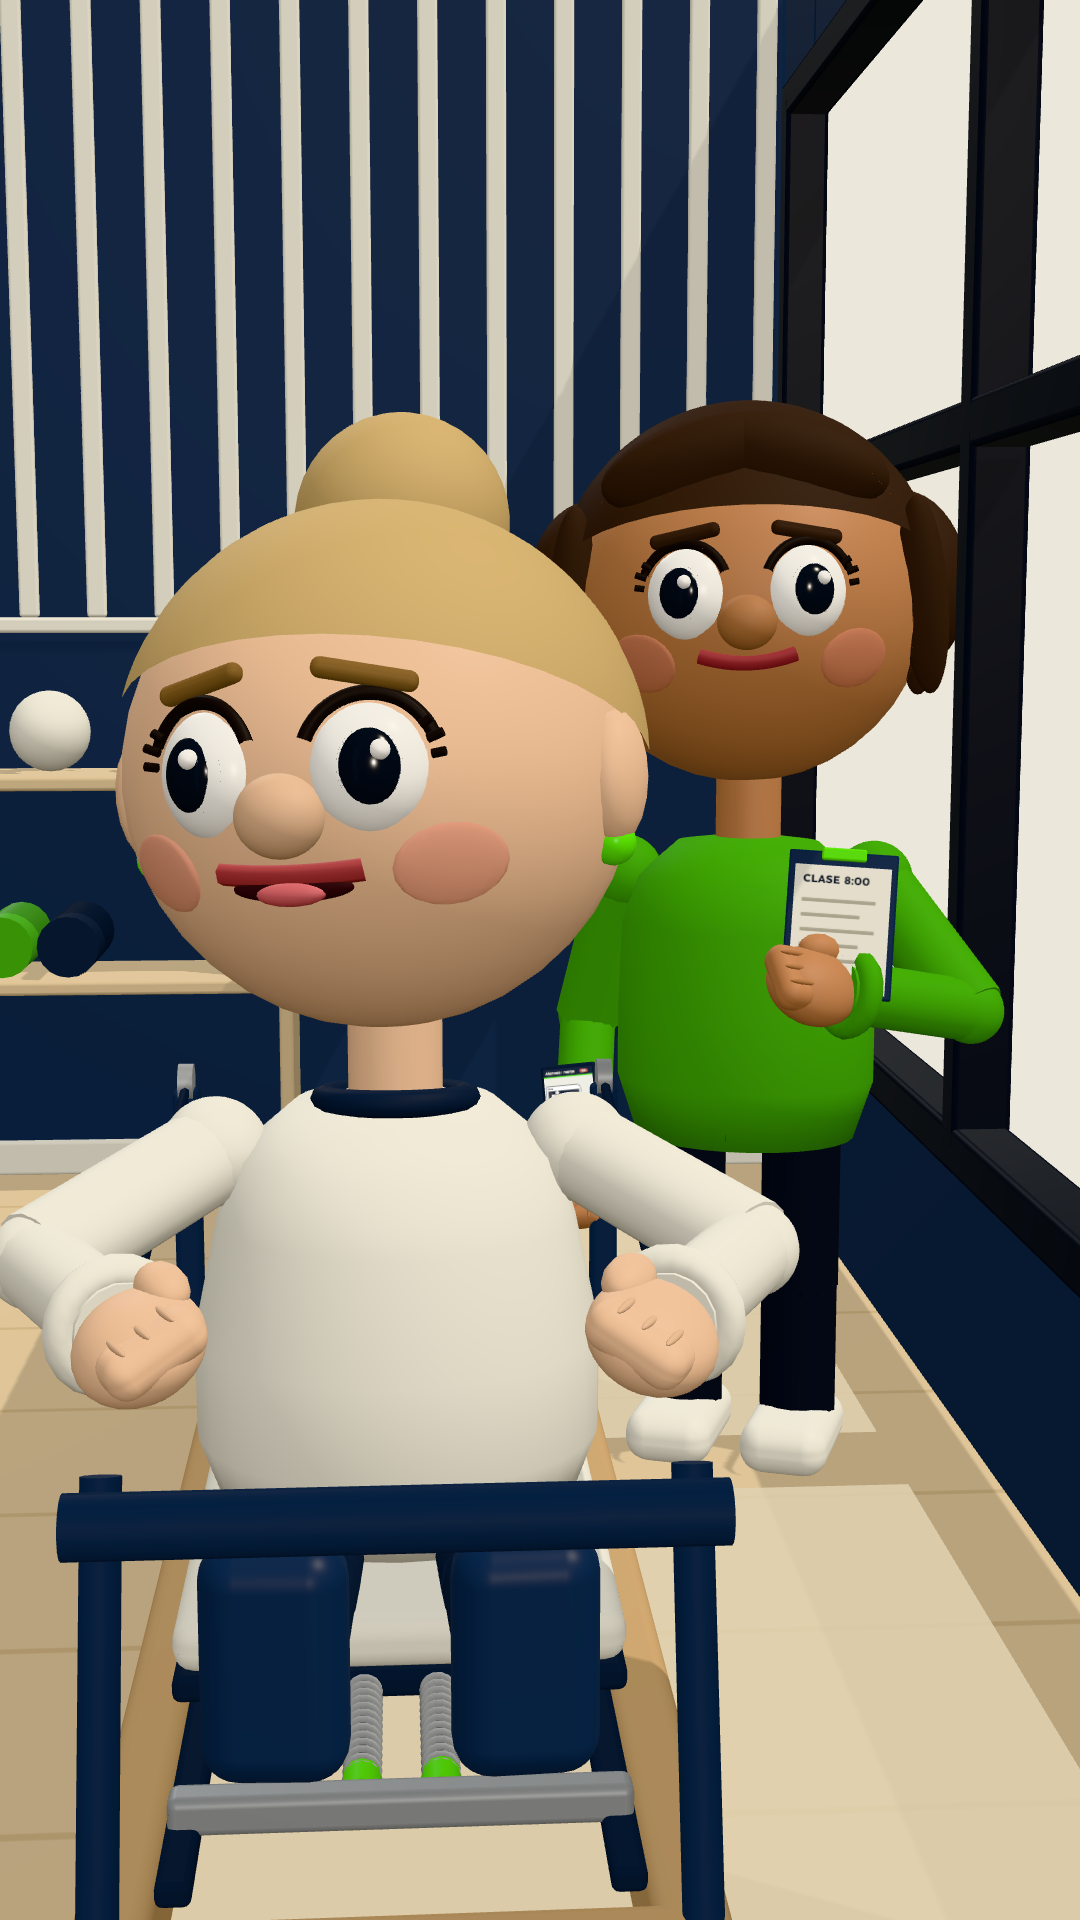
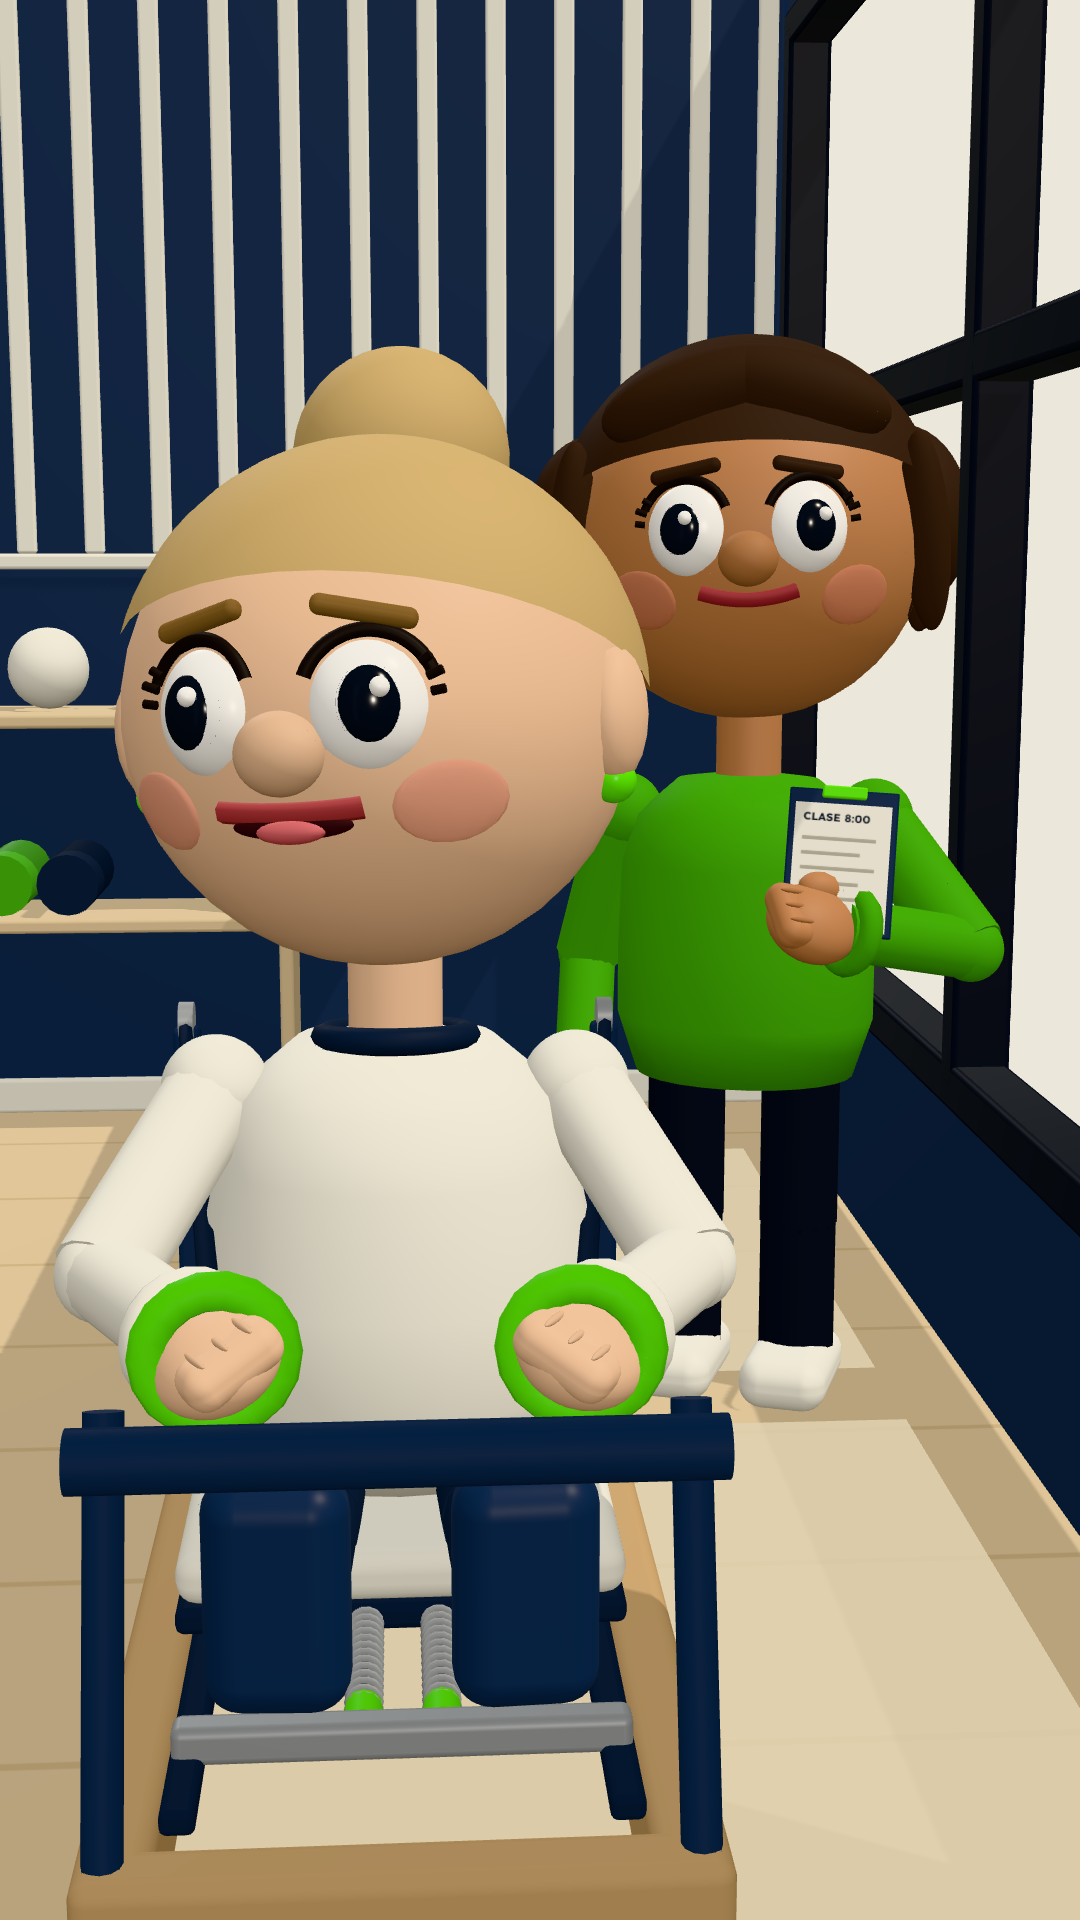
wip: pilates-cuota (ronda 3 corregida, antes del render)
Claude-Session: https://claude.ai/code/session_01Fn7kXCPYhPYC2JJr7hdyAB

diff --git a/reels/pilates-cuota/assets/tres.js b/reels/pilates-cuota/assets/tres.js
@@ -276,9 +276,10 @@ function ponerCorreas(r, manos, on = true) {
     c.visible = asa.visible = on && !!manos; if (!c.visible) continue;
     const p = r.localToWorld(_cA.set(s * POLEA.x, POLEA.y, POLEA.z - 0.03));
     const m = manos[0].distanceTo(p) < manos[1].distanceTo(p) ? manos[0] : manos[1];   // (r2) la mano del mismo lado
-    const ma = _cB.copy(p).sub(m).normalize().multiplyScalar(0.06).add(m);   // (r1) el asa asoma delante del puño
-    entre(c, p, ma.clone(), 0.0085);
-    asa.position.copy(ma); asa.lookAt(p); asa.rotateY(Math.PI / 2); asa.scale.setScalar(1.25);
+    // (r3) el asa verde rodea el puño (de frente se ve el aro alrededor de la mano cerrada) y la correa llega hasta el asa
+    const ma = m.clone();   // (r3) clone: entre() usa _cB y pisaba la posición del asa (por eso no se veía)
+    entre(c, p, ma.clone(), 0.012);
+    asa.position.copy(ma); asa.lookAt(p); asa.scale.setScalar(1.8);
   }
 }
 const REFS = REF_X.map((x) => { const r = crearReformer(); r.position.set(x, 0, REF_Z(x)); r.rotation.y = Math.PI; ponerCarro(r, 0); return r; });   // (r2) dado vuelta: las poleas detrás de la alumna, la barra de pies hacia cámara
@@ -313,7 +314,7 @@ function dibujarPizarra(x, W, H, nQ, pop = 1, horarios = false) {
   if (horarios) {
     x.fillStyle = "#0b1220"; x.textAlign = "center"; x.font = F(900, 86); x.fillText("HORARIOS", W / 2 + 60, 140);   // (r2) más chico y adentro: el borde del cuadro no lo corta
     x.fillStyle = "#5ce611"; x.fillRect(W / 2 + 60 - 230, 196, 460, 12);
-    x.fillStyle = "#16243d"; x.font = CAV(100); x.fillText("Lun · Mié · Vie", W / 2 + 60, 320); x.fillText("8:00 · 19:00", W / 2 + 60, 440);
+    x.fillStyle = "#16243d"; x.font = CAV(100); x.fillText("8:00 · 19:00", W / 2 + 60, 440);   // (r3) sin "Lun · Mié · Vie": asomaba cortado sobre la burbuja
     x.font = CAV(84); x.fillText("Mar · Jue  9:00", W / 2 + 60, 570);
     return;
   }
@@ -353,7 +354,7 @@ const bancoT = lienzo(900, 580, (x, W, H) => {
   x.fillStyle = "#efeee5"; x.beginPath(); x.moveTo(44, 62); x.lineTo(70, 34); x.lineTo(96, 62); x.closePath(); x.fill(); x.fillRect(52, 60, 36, 24);
   x.font = F(800, 46); x.textBaseline = "middle"; x.textAlign = "left"; x.fillText("Movimientos · marzo", 120, 52);
   const fil = ["Transferencia recibida", "Transferencia recibida", "Transferencia recibida", "Transferencia recibida", "Transferencia recibida"];
-  fil.forEach((f, i) => { const y = 150 + i * 86; x.fillStyle = i % 2 ? "#ffffff" : "#f6f4ea"; x.fillRect(20, y - 38, W - 40, 76); x.fillStyle = "#16243d"; x.font = F(700, 38); x.fillText(f, 40, y); x.textAlign = "right"; x.font = F(800, 40); x.fillText("$ 3.000", W - 40, y); x.textAlign = "left"; });
+  fil.slice(0, 4).forEach((f, i) => { const y = 160 + i * 104; x.fillStyle = i % 2 ? "#ffffff" : "#f6f4ea"; x.fillRect(20, y - 48, W - 40, 96); x.fillStyle = "#16243d"; x.font = F(700, 48); x.fillText(f, 40, y); x.textAlign = "right"; x.font = F(800, 52); x.fillText("$ 3.000", W - 40, y); x.textAlign = "left"; });   // (r3) textos más grandes
 });
 const LAPTOP = new THREE.Group();
 { LAPTOP.add(caja(0.36, 0.018, 0.25, M.cr2, 0, 0.009, 0, 0.008)); LAPTOP.add(caja(0.31, 0.003, 0.12, mat(0xc9c6b6, 0.7), 0, 0.019, -0.03, 0.002));
@@ -863,7 +864,7 @@ const PLANOS = [
   // (r1) Q3b: contraplano a Ceci en "El 1, a las 7:02." (Q3 duraba 6,2 s en un plano)
   ["Q3b", T.q3b, [[T.q3b, 2.62, 1.55, 1.75, CECI_CLASE.x - 0.12, 1.45, CECI_CLASE.z, 44], [T.q4, 2.62, 1.55, 1.62, CECI_CLASE.x - 0.12, 1.45, CECI_CLASE.z, 43]]],
   ["Q4", T.q4, [[T.q4, 2.72, 1.5, 2.0, CECI_CLASE.x - 0.1, 1.42, CECI_CLASE.z, 48], [T.q5, 2.72, 1.5, 1.85, CECI_CLASE.x - 0.1, 1.42, CECI_CLASE.z, 47]]],
-  ["Q5", T.q5, [[T.q5, MOS.x + 0.32, 1.82, MOS.z + 1.52, MOS.x + 0.32, 1.13, MOS.z - 0.02, 42], [DUR, MOS.x + 0.32, 1.8, MOS.z + 1.47, MOS.x + 0.32, 1.13, MOS.z - 0.02, 41.5]]   /* (r2) desde más arriba: abajo se ve la tapa del mostrador con la planilla y la taza, no el frente liso */],
+  ["Q5", T.q5, [[T.q5, MOS.x + 0.32, 1.86, MOS.z + 1.48, MOS.x + 0.32, 1.2, MOS.z - 0.02, 42], [DUR, MOS.x + 0.32, 1.84, MOS.z + 1.43, MOS.x + 0.32, 1.2, MOS.z - 0.02, 41.5]]   /* (r2) desde más arriba: abajo se ve la tapa del mostrador con la planilla y la taza, no el frente liso */],
 ];
 for (let i = PLANOS.length - 2; i >= 0; i--) { const d = PLANOS[i + 1][1] - PLANOS[i][1]; if (d < 0.3) { console.error(`plano corto: ${PLANOS[i][0]} (${d.toFixed(2)} s), se saca`); PLANOS.splice(i, 1); } }
 const _m = new THREE.Vector3();
@@ -898,6 +899,8 @@ const bocaVoz = (p, t, t0, env, k = 0.7) => {
   if (t >= t0 - 0.05 && t < t0 + env.length / 30 + 0.05 && !p.cierraHablando) p.ojos.abiertos = Math.max(p.ojos.abiertos, 0.85);   // hablando, nunca con los ojos cerrados
 };
 const manoMundo = (per, lado, out = new THREE.Vector3()) => { per.raiz.updateMatrixWorld(true); return per.brazos[lado === "I" ? 0 : 1].mano.getWorldPosition(out); };
+// (r3) el centro del puño (la mano cuelga 0,05 a lo largo del antebrazo): ahí va el asa
+const punoMundo = (per, lado) => { per.raiz.updateMatrixWorld(true); const m = per.brazos[lado === "I" ? 0 : 1].mano; return m.localToWorld(new THREE.Vector3(0, -0.05, 0.005)); };
 function aCuerpo(per, p, w) { per.poner(p); per.raiz.updateMatrixWorld(true); const v = per.cuerpo.worldToLocal(w.clone()); return [v.x, v.y, v.z]; }
 const dirGiro = (x0, z0, x1, z1) => Math.atan2(x1 - x0, z1 - z0);
 const toW = (per, local) => { per.raiz.updateMatrixWorld(true); return per.cuerpo.localToWorld(V3(...local)); };
@@ -915,8 +918,8 @@ function poseRemo(per, ref, t, u, extra = {}) {
     x: ref.position.x, y: 0.415 - per.CADERA * al, z: ref.position.z - (CARRO.z0 + dz - 0.2), giro: 0, sentado: 1, piernasRectas: 1, inclina: lerp(0.04, -0.03, u),
     ...aC(0, 0.05), ...CARA.neutra,
     // (r2) "abrazar el árbol": las manos se juntan adelante y se abren a los costados; las correas van a las poleas de atrás
-    manoI: [lerp(0.27, 0.5, u), lerp(0.38, 0.36, u), lerp(0.46, 0.08, u)], manoD: [-lerp(0.27, 0.5, u), lerp(0.38, 0.36, u), lerp(0.46, 0.08, u)],
-    codoI: [1, -0.2, -0.3], codoD: [-1, -0.2, -0.3], dedoI: 0, dedoD: 0, t,
+    manoI: [lerp(0.2, 0.42, u), lerp(0.3, 0.28, u), lerp(0.46, 0.2, u)], manoD: [-lerp(0.2, 0.42, u), lerp(0.3, 0.28, u), lerp(0.46, 0.2, u)],   // (r3) puños adelante, más bajos (no palmas arriba)
+    codoI: [1, -0.6, -0.4], codoD: [-1, -0.6, -0.4], dedoI: 0, dedoD: 0, t,
   };
   return { ...p, ...extra };
 }
@@ -929,7 +932,7 @@ function ponerClase(t) {
     const p = poseRemo(a, ref, t, u * (1 - b), { ...aC(0.05 * Math.sin(i), 0.05), ...CARA.neutra, ojos: { abiertos: 0.95, y: -0.2 } });
     if (b > 0) { p.manoI = p.manoI.map((v, k) => lerp(v, [0.26, -0.02, 0.12][k], b)); p.manoD = p.manoD.map((v, k) => lerp(v, [-0.26, -0.02, 0.12][k], b)); p.boca.sonrisa = lerp(p.boca.sonrisa, 0.6, b); }
     a.poner(p);
-    ponerCorreas(ref, b > 0.9 ? null : [manoMundo(a, "I", new THREE.Vector3()), manoMundo(a, "D", new THREE.Vector3())]);
+    ponerCorreas(ref, b > 0.9 ? null : [punoMundo(a, "I"), punoMundo(a, "D")]);
   });
 }
 function poseAlicia(t) {
@@ -1037,7 +1040,7 @@ function poseCeci(t) {
   // Q2b: detrás del mostrador con la tablet en las manos: "Ya pagaron 39." sin levantar la vista
   // (r2) la tablet en alto (se ve sobre el mostrador); en "Sale sola, el día uno." la da vuelta y la muestra
   const p = poseEn(t, [[0, { x: CECI_MOS.x, z: CECI_MOS.z, giro: 0.35, ...aC(0.0, 0.3), ...CARA.sonrisa, ojos: { abiertos: 0.95, y: -0.35, x: 0 }, ...BRAZOS.celular, manoI: [0.12, 0.4, 0.34], manoD: [-0.12, 0.4, 0.34] }],
-    [T.c4, { ...aC(0.1, 0.05), ...BUENA, ojos: { abiertos: 0.95, y: 0, x: 0.1 }, manoI: [0.12, 0.52, 0.42], manoD: [-0.12, 0.52, 0.42] }, 0.35]]);
+    [T.c4, { ...aC(0.1, 0.05), ...BUENA, ojos: { abiertos: 0.95, y: 0, x: 0.1 }, manoI: [0.12, 0.41, 0.42], manoD: [-0.12, 0.41, 0.42] }, 0.35]]);   // (r3) la tablet al pecho: la boca a la vista
   p.t = t; bocaVoz(p, t, T.c4, ENV.c4, 0.55); return p;
 }
 function poseJoaco(t) {
@@ -1083,7 +1086,7 @@ function ponerObjetos(t) {
   TOALLA.visible = !p2 && (pa === "P4" || pa === "P5" || pa === "P6");
   // la laptop, la planilla, la lámpara: siempre en el mostrador (la laptop cerrada de día no hace falta: queda abierta)
   // la tablet en mano de Ceci (Q2b) = el celular de Ceci con la pantalla del panel, más grande
-  if (pa === "Q2b" || pa === "Q2c") { CEL_CECI.visible = true; const a = manoMundo(ceci, "I", _a), b = manoMundo(ceci, "D", _b); ceci.cuerpo.getWorldQuaternion(_q); const g = eio(sg(t, T.c4 - 0.25, T.c4 + 0.15)); CEL_CECI.position.copy(a).add(b).multiplyScalar(0.5).add(V3(0, 0.08 + 0.1 * g, 0.02)); CEL_CECI.quaternion.copy(_q); CEL_CECI.rotateX(lerp(-1.05, -0.2, g)); CEL_CECI.rotateZ(Math.PI / 2); CEL_CECI.scale.setScalar(1.9); } else CEL_CECI.scale.setScalar(1.15);   // (r2) la da vuelta hacia cámara: el panel a la vista
+  if (pa === "Q2b" || pa === "Q2c") { CEL_CECI.visible = true; const a = manoMundo(ceci, "I", _a), b = manoMundo(ceci, "D", _b); ceci.cuerpo.getWorldQuaternion(_q); const g = eio(sg(t, T.c4 - 0.25, T.c4 + 0.15)); CEL_CECI.position.copy(a).add(b).multiplyScalar(0.5).add(V3(0, 0.08 + 0.02 * g, 0.02)); CEL_CECI.quaternion.copy(_q); CEL_CECI.rotateX(lerp(-1.05, -0.2, g)); CEL_CECI.rotateZ(Math.PI / 2); CEL_CECI.scale.setScalar(1.9); } else CEL_CECI.scale.setScalar(1.15);   // (r2) la da vuelta hacia cámara: el panel a la vista
   BOTELLA.visible = pa === "Q2b"; if (BOTELLA.visible) enMano(BOTELLA, joaco, "I", 0, 0, 0, -0.05, 0.0);
   MOCHILA.visible = false;   // (r2) sin mochila: no se leía
   TAZA_A.visible = VAPOR.visible = pa === "Q1" || pa === "Q1b";
@@ -1103,6 +1106,7 @@ function renderAt(tIn) {
   noche(pa === "P3" || pa === "P3j" || pa === "P3b");
   ponerSol(pa === "Q1" || pa === "Q1b" ? 30 : pa === "P1" || pa.startsWith("Q3") || pa === "Q4" ? 1.2 : -2.2, -0.6);
   dibujarInterfaz(t); ponerPizarra(t);
+  sol.castShadow = pa !== "P6b";   // (r3) en el primer plano de Ceci la sombra suelta del mostrador era una mancha en la esquina
   const clase = pa === "P1" || pa === "Q3" || pa === "Q3b" || pa === "Q4";
   const mos = ["P4", "P5", "P6", "P6b"].includes(pa);
   const vis = {
@@ -1118,7 +1122,7 @@ function renderAt(tIn) {
   if (vis.ceci) ceci.poner(poseCeci(t));
   if (vis.alicia) alicia.poner(poseAlicia(t));
   if (vis.joaco) joaco.poner(poseJoaco(t));
-  if (vis.alicia && clase) ponerCorreas(REF_A, [manoMundo(alicia, "I", new THREE.Vector3()), manoMundo(alicia, "D", new THREE.Vector3())]);
+  if (vis.alicia && clase) ponerCorreas(REF_A, [punoMundo(alicia, "I"), punoMundo(alicia, "D")]);
   else { if (!clase) ponerCarro(REF_A, 0); ponerCorreas(REF_A, null); }
   // ---- cámara ----
   if (pl[2] === "q5") {
@@ -1136,7 +1140,7 @@ function renderAt(tIn) {
   if (pa === "Q5") {
     sofi.poner(poseSofi(t)); sofi.raiz.updateMatrixWorld(true);
     const c = sofi.cabeza.localToWorld(V3(0, 0.2, 0));
-    SOFI.cam.position.set(c.x + 0.04, c.y - 0.05, c.z + 1.75); SOFI.cam.lookAt(c.x, c.y - 0.2, c.z);   // (r2) Sofi en plano medio
+    SOFI.cam.position.set(c.x + 0.04, c.y - 0.05, c.z + 2.15); SOFI.cam.lookAt(c.x, c.y - 0.2, c.z);   // (r3) un poco más lejos: el marco no le corta la cabeza   // (r2) Sofi en plano medio
     renderer.setRenderTarget(SOFI.rt); renderer.render(SOFI.esc, SOFI.cam); renderer.setRenderTarget(null);
   }
   // ---- insertos ----
@@ -1150,7 +1154,7 @@ function renderAt(tIn) {
   for (const p of TODOS) if (p.raiz.visible) p.ojoLejano(camera.position);
   // ---- portada (VER=portada): Ceci detrás del mostrador, incrédula, y Alicia sonriente con el celular en alto ----
   // (r1) portada (VER=portada, t en la clase del día 10): el mismo cuadro 0 más cerca, las dos caras en la mitad de arriba
-  if (VER === "portada") { ponerCam([1.95, 1.42, 3.25, 2.18, 0.9, -0.3, 46], t); camera.updateMatrixWorld(true); ponerObjetos(t); for (const p of TODOS) if (p.raiz.visible) p.ojoLejano(camera.position); }
+  if (VER === "portada") { ponerCam([1.95, 1.42, 3.25, 2.18, 0.8, -0.3, 46], t); camera.updateMatrixWorld(true); ponerObjetos(t); CEL_CECI.visible = false;   /* (r3) sin el celular asomando; las caras más arriba */ for (const p of TODOS) if (p.raiz.visible) p.ojoLejano(camera.position); }
   // ---- tarjetas ----
   AVISOS.length = 0;
   for (const k in GL) GL[k].visible = false;
@@ -1168,7 +1172,7 @@ function tarjetas(t) {
   }
   if (pa === "P2b") { ponerGlobo(GL.pagaron, 770, 330, ent(T.p2b + 0.1), null, 1); }   // (r1) arriba a la derecha, sin tapar renglones
   if (pa === "P3" || pa === "P3j" || pa === "P3b") {
-    ponerGlobo(GL.noche, 300, 200, 1, null);
+    ponerGlobo(GL.noche, pa === "P3" ? 760 : 300, pa === "P3" ? 120 : 200, 1, null);   // (r3) en P3 a la derecha: no tapa "CUOTAS"
     if (pa === "P3") { LAPTOP.updateMatrixWorld(true); const [lx, ly] = objPx(LAPTOP, V3(0, 0.13, -0.12)); ponerGlobo(GL.banco, 540, 1240, ent(T.p3), null, 1); ponerGlobo(GL.noCierra, 540, 1500 - 70, ent(T.noCierra + 0.15), null, 2); if (t >= T.noCierra) ponerGuia(GUIAS[0], 540, 1040, lx, ly, eo(sg(t, T.noCierra, T.noCierra + 0.25))); }
     if (pa === "P3j" && t >= T.j1) hablar(GL.j1, joaco, ent(T.j1), 1, 0);
     if (pa === "P3b" && t >= T.c2) hablar(GL.c2, ceci, ent(T.c2), 1, -40);
@@ -1181,7 +1185,7 @@ function tarjetas(t) {
   if (pa === "P5") {
     // (r1) dos rótulos fijos en pantalla: el costo arriba a la izquierda (franja navy), anclado en la columna derecha de la
     // pizarra (que no queda detrás de Ceci); "Pagado a la peluquera" abajo a la derecha, anclado en el celular de Alicia
-    PIZARRA.updateMatrixWorld(true); const [zx, zy] = objPx(PIZARRA, V3(0.39, 0.2, 0));   // (r2) en un "?" rojo (Pao)
+    PIZARRA.updateMatrixWorld(true); const [zx, zy] = objPx(PIZARRA, V3(0.39, 0.09, 0));   // (r2) en un "?" rojo (Pao)
     CEL_ALI.updateMatrixWorld(true); const [ax, ay] = objPx(CEL_ALI, V3(0, -0.05, 0));
     const u0 = ent(T.rot[0]), u2 = ent(T.rot[2]);
     ponerGlobo(GL.r1, 300, 210, u0, null, 1); if (u0 > 0) ponerGuia(GUIAS[0], 300 + GL.r1.userData.W / 2 - 40, 210 + GL.r1.userData.H / 2, zx, zy, eo(sg(t, T.rot[0], T.rot[0] + 0.25)));
@@ -1193,11 +1197,11 @@ function tarjetas(t) {
     if (t >= T.florMsg) ponerGlobo(GL.florMsg, 540, 380, ent(T.florMsg), null, 2);
   }
   if (pa === "Q1" || pa === "Q1b") ponerGlobo(GL.dia1, 250, 200, 1, null);
-  if (pa === "Q1i") { ponerGlobo(GL.dia1, 250, 120, 1, null); ponerGlobo(GL.rCobra, 560, 296, ent(T.q1i + 0.3), null, 1); }
+  if (pa === "Q1i") { ponerGlobo(GL.dia1, 250, 200, 1, null); ponerGlobo(GL.rCobra, 640, 330, ent(T.q1i + 0.3), null, 1); }
   if (pa === "Q1b" && t >= T.a4) hablar(GL.a4, alicia, ent(T.a4), 1, 0);
   if (pa === "Q2") ponerGlobo(GL.rPanel, 540, 200, ent(T.q2 + 0.1), null, 1);
   if (pa === "Q2b" || pa === "Q2c") {
-    if (pa === "Q2b" && t >= T.j1b && t < T.c4) hablar(GL.j1, joaco, ent(T.j1b), 1, 0);
+    if (pa === "Q2b" && t >= T.j1b && t < T.c4) hablar(GL.j1, joaco, ent(T.j1b), 1, 0, 520);   // (r3) más abajo: no corta "HORARIOS"
     if (pa === "Q2c" && t >= T.c4) hablar(GL.c4, ceci, ent(T.c4), 1, -120, 330);
   }
   if (pa === "Q3" || pa === "Q3b") {
@@ -1212,6 +1216,6 @@ function tarjetas(t) {
 }
 window.__tresRender = renderAt;
 window.addEventListener("hf-seek", (e) => renderAt(e.detail.time));
-window.__tresDbg = (t) => { renderAt(t); return { plano: planoActual, avisos: AVISOS.slice() }; };
+window.__tresDbg = (t) => { renderAt(t); const c = REF_A.userData.correas.map(({ c, asa }) => [c.visible, asa.visible, asa.position.toArray().map((v) => +v.toFixed(2)), c.scale.y.toFixed(2)]); return { plano: planoActual, avisos: AVISOS.slice(), correas: c }; };
 renderAt(window.__hfThreeTime || 0);
 if (window.__tresListo) window.__tresListo();
